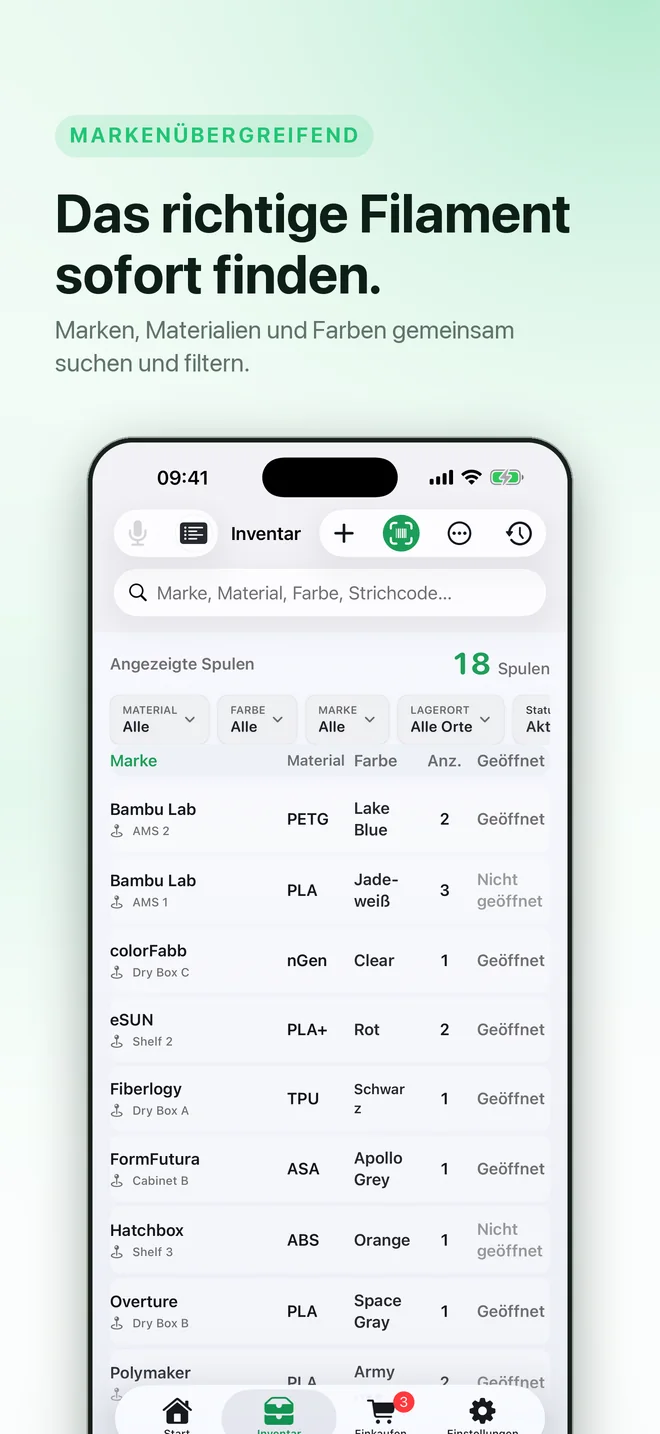
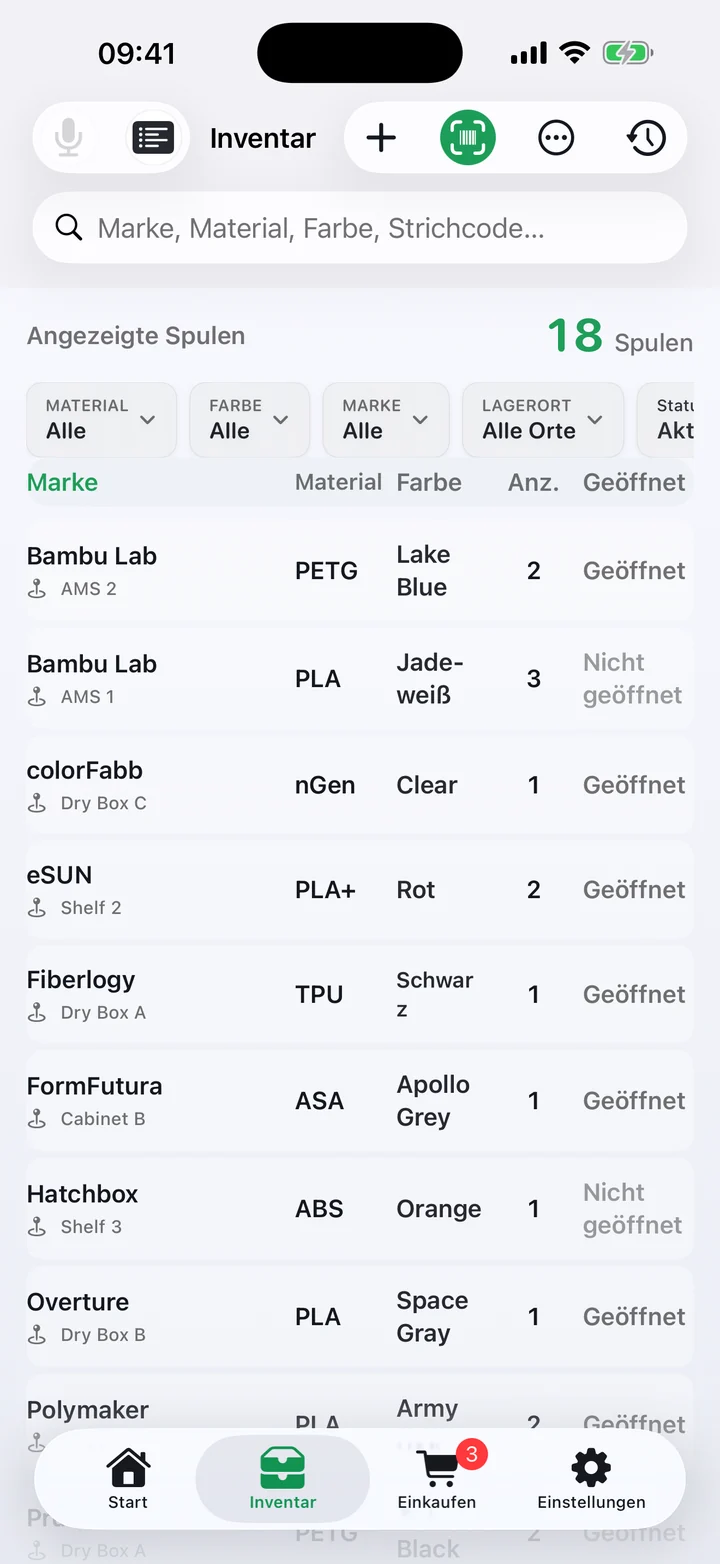
Use real app screenshots on landing page

diff --git a/index.html b/index.html
@@ -574,8 +574,9 @@
         <figure class="shot-card"><img data-localized-src="showcase/{lang}/iphone-02.webp" src="assets/showcase/en/iphone-02.webp" alt="Filary inventory filters" width="660" height="1434" loading="lazy"></figure>
         <figure class="shot-card"><img data-localized-src="showcase/{lang}/iphone-03.webp" src="assets/showcase/en/iphone-03.webp" alt="Filary low-stock alerts" width="660" height="1434" loading="lazy"></figure>
         <figure class="shot-card"><img data-localized-src="showcase/{lang}/iphone-04.webp" src="assets/showcase/en/iphone-04.webp" alt="Filary barcode scanner" width="660" height="1434" loading="lazy"></figure>
-        <figure class="shot-card"><img data-localized-src="showcase/{lang}/iphone-05.webp" src="assets/showcase/en/iphone-05.webp" alt="Filary Essential and Pro" width="660" height="1434" loading="lazy"></figure>
         <figure class="shot-card shot-card-ipad"><img data-localized-src="showcase/{lang}/ipad-01.webp" src="assets/showcase/en/ipad-01.webp" alt="Filary on iPad" width="1032" height="1376" loading="lazy"></figure>
+        <figure class="shot-card shot-card-ipad"><img data-localized-src="showcase/{lang}/ipad-02.webp" src="assets/showcase/en/ipad-02.webp" alt="Filary scanner on iPad" width="1032" height="1376" loading="lazy"></figure>
+        <figure class="shot-card shot-card-ipad"><img data-localized-src="showcase/{lang}/ipad-03.webp" src="assets/showcase/en/ipad-03.webp" alt="Filary settings on iPad" width="1032" height="1376" loading="lazy"></figure>
       </div>
     </section>
 
